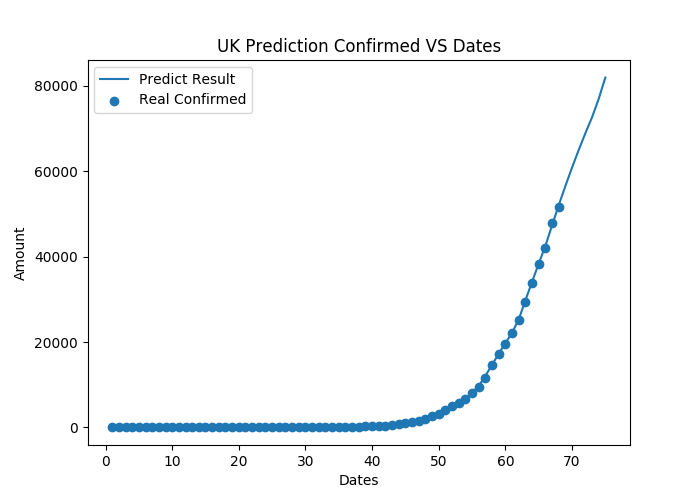
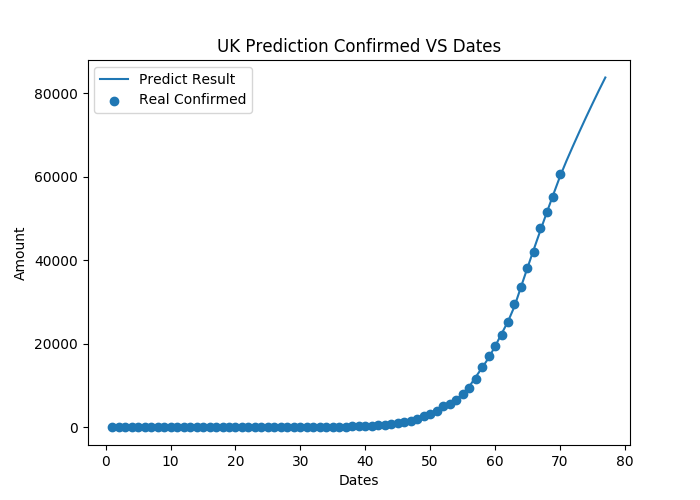
update prediction

diff --git a/mlp_uk.py b/mlp_uk.py
@@ -145,7 +145,7 @@ for each in each_data:
     uk_comfirmed_data.append(each['confirmed'])
 
 # add uk latest data manually
-uk_comfirmed_data.append(51608)
+uk_comfirmed_data.append(60773)
 
 uk_date_length = len(uk_comfirmed_data)
 uk_dates = list(range(1, uk_date_length + 1))
